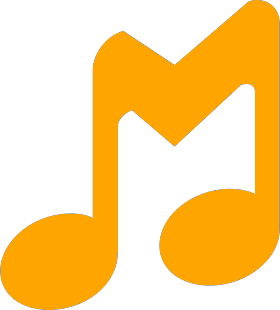
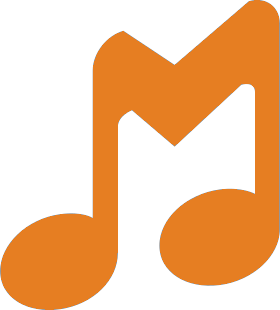
resolved dimension issues in desktop and positioning issues in mobile

diff --git a/components/NewDesktopComponent.js b/components/NewDesktopComponent.js
@@ -78,7 +78,7 @@ export default ({ width, sound, video, user }) => {
       <div
         onContextMenu={(e) => e.preventDefault()}
         className={styles.playerWrapper}
-        style={{ width: width, height: height }}
+        style={{ width: width }}
       >
         <div className={styles.wrapper}>
           <div className={styles.onlyPlayerWrapper}>
@@ -117,7 +117,12 @@ export default ({ width, sound, video, user }) => {
 
           <div className={styles.sideBar}>
             <header className={styles.header}>
-              <img src={user.profilePic} className={styles.profileImg} />
+              <img
+                src={user.profilePic}
+                className={styles.profileImg}
+                height="50px"
+                width="50px"
+              />
               <div>
                 <div className={styles.name}>
                   <div>
@@ -135,18 +140,16 @@ export default ({ width, sound, video, user }) => {
                     {' '}
                     <FontAwesomeIcon
                       icon={faMusic}
-                      size="2x"
-                      color="#ff"
+                      size="1x"
+                      color="#ff4f00"
                     />{' '}
                     {sound.name}
                   </div>
                 </div>
               </div>
-
-              {/* <button>...</button> */}
             </header>
             <main className={styles.commentBox}>
-              <div className={styles.hashTags}>
+              {/* <div className={styles.hashTags}>
                 {`#Dance #Mitron #feelIt #Bloopers `}
                 <FontAwesomeIcon
                   icon={faSmileWink}
@@ -155,53 +158,48 @@ export default ({ width, sound, video, user }) => {
                 />{' '}
                 <FontAwesomeIcon icon={faSmile} size="1x" color="orange" />{' '}
                 <FontAwesomeIcon icon={faSmile} size="1x" color="orange" />{' '}
-              </div>
+              </div> */}
               {/* <div className={styles.comments}>
                 <Link href="/gallery/gallery">
                   <a>Go to Video Gallery</a>
                 </Link>
               </div> */}
             </main>
-            <div style={{ marginBottom: '15px' }}>
-              {user.videoLikeCount
-                .toString()
-                .replace(/\B(?=(\d{3})+(?!\d))/g, ',')}{' '}
-              Likes
+            <div className={styles.metricsWrapper}>
+              <div style={{ marginBottom: '15px', marginRight: '5px' }}>
+                {video.likeCount
+                  .toString()
+                  .replace(/\B(?=(\d{3})+(?!\d))/g, ',')}{' '}
+                Likes
+              </div>
+              &#8226;
+              <div style={{ marginBottom: '15px', marginLeft: '5px' }}>
+                {video.commentCount
+                  .toString()
+                  .replace(/\B(?=(\d{3})+(?!\d))/g, ',')}{' '}
+                Comments
+              </div>
             </div>
             <footer>
               <header className={styles.scanQR}>
-                Scan the QR code to download and watch more videos on MitronTV
+                Click On The Button Below To Download The MitronTV App Now
               </header>
               <main className={styles.socialWrapper}>
-                <div className={styles.btnWrapper}>
-                  <div style={{ margin: 10 }}>
-                    <a
-                      target="_blank"
-                      href="https://play.google.com/store/apps/details?id=com.mitron.tv"
-                    >
-                      <img
-                        src="/images/googleStore.png"
-                        width="140px"
-                        height="50px"
-                      />
-                    </a>
-                  </div>
-                  <div style={{ margin: 10 }}>
-                    <a
-                      target="_blank"
-                      href="https://play.google.com/store/apps/details?id=com.mitron.tv"
-                    >
-                      <img
-                        src="/images/appStore.png"
-                        width="150px"
-                        height="50px"
-                      />
-                    </a>
-                  </div>
+                {/* <div className={styles.btnWrapper}> */}
+                <div style={{ margin: 10 }}>
+                  <a
+                    target="_blank"
+                    href="https://play.google.com/store/apps/details?id=com.mitron.tv"
+                  >
+                    <img
+                      src="/images/googleStore.png"
+                      width="140px"
+                      height="50px"
+                    />
+                  </a>
                 </div>
-                <div>
-                  <img src="/images/QR2.jpg" width="100px" height="100px" />
-                </div>
+
+                {/* </div> */}
               </main>
             </footer>
           </div>

diff --git a/components/NewDesktopComponent.module.css b/components/NewDesktopComponent.module.css
@@ -1,24 +1,28 @@
 .playerWrapper {
-  /* height: 95vh; */
+  height: 89vh;
+  margin-top: 5px;
   /* width: 100vw; */
-  /* position: relative; */
+  position: relative;
   /* padding-top: 56.25%; */
   /* border: 2px solid red; */
   display: flex;
   justify-content: center;
   align-items: center;
+  background-image: linear-gradient(#fbfbfd, #95a0a9);
 }
 
 .wrapper {
   /* border: 2px solid greenyellow; */
-  max-height: 65%;
+  /* min-height: 90%; */
+  height: 95%;
+
   /* min-width: 50%; */
-  max-width: 75%;
+  max-width: 65%;
 
   display: flex;
   box-shadow: 2px 3px 11px -2px rgba(0, 0, 0, 0.75);
   font-size: 0.9rem;
-  /* position: relative; */
+  position: absolute;
 }
 
 .onlyPlayerWrapper {
@@ -57,6 +61,10 @@
   border-right: 2px solid grey;
 }
 
+.reactPlayer video {
+  object-fit: cover;
+}
+
 .sideBar {
   /* height: 100%; */
   width: 55%;
@@ -76,8 +84,8 @@
 }
 
 .profileImg {
-  width: auto;
-  height: 50px;
+  /* width: auto; */
+  /* height: 50px; */
   /* border: 1px solid black; */
   border-radius: 50%;
   margin: 10px;
@@ -90,8 +98,12 @@
 .commentBox {
   /* border: 2px solid rgb(206, 140, 140); */
   margin-top: 5px;
-  min-height: 25%;
+  min-height: 30%;
   width: 100%;
+}
+
+.metricsWrapper {
+  display: flex;
 }
 
 .hashTags {
@@ -101,7 +113,8 @@
 
 .socialWrapper {
   display: flex;
-  justify-content: space-evenly;
+  justify-content: center;
+  align-items: center;
   max-width: 90%;
   margin: auto;
 }
@@ -112,13 +125,13 @@
   /* border: 2px solid aliceblue; */
 }
 
-.btnWrapper {
+/* .btnWrapper {
   display: 'flex';
   flex-direction: 'column';
   align-items: 'space-between';
   height: '100%';
-  /* border: "2px solid red"; */
-}
+  border: "2px solid red";
+} */
 
 .playPause {
   /* border: 2px solid blue; */
@@ -132,6 +145,10 @@
   .playerWrapper {
     /* border: 2px solid blue; */
   }
+}
+
+.musicLabel {
+  /* color: #ff4f00; */
 }
 
 /* DEMO-SPECIFIC STYLES */

diff --git a/pages/video/[id].js b/pages/video/[id].js
@@ -12,7 +12,7 @@ const Player = ({ sound, video, user, msg, url }) => {
   const [width, setWidth] = React.useState();
   const [height, setHeight] = React.useState();
   //   const [playing, setPlaying] = React.useState(false);
-  const breakpoint = 720;
+  const breakpoint = 820;
 
   //state/hook for fetching data
   // const [sound, setSound] = React.useState({});
@@ -160,7 +160,7 @@ Player.getInitialProps = async ({ query }) => {
   const result = await axios(config);
   const shareResult = await axios(shareConfig);
 
-  console.log('share result', shareResult.data);
+  // console.log('share result', shareResult.data);
   // console.log('sound', result.data.sound);
   // const json = await res.json()
   // return { stars: json.stargazers_count }

diff --git a/components/react-modal-box.js b/components/react-modal-box.js
@@ -57,7 +57,7 @@ export default class ReactModalBox extends Component {
             left: 0,
             right: 0,
             bottom: 0,
-            backgroundColor: 'rgba(255, 255, 255, 0.75)',
+            backgroundColor: 'rgba(255, 255, 255, 0.30)',
           },
           content: {
             position: 'absolute',
@@ -72,6 +72,7 @@ export default class ReactModalBox extends Component {
             borderRadius: '4px',
             outline: 'none',
             padding: '20px',
+            boxShadow: '3px -1px 9px 0px rgba(0,0,0,0.75) ',
           },
           /* Object indicating styles to be used for the modal.
      It has two keys, `overlay` and `content`.

diff --git a/components/Header.js b/components/Header.js
@@ -12,6 +12,7 @@ const Home = () => {
         <link href="/vendors/css/grid.css" rel="stylesheet" />
       </Head>
       <header>
+        {/* <header onContextMenu={(e) => e.preventDefault()}> */}
         <nav>
           <div className={styles[`nav--header`]}>
             <img
@@ -31,7 +32,8 @@ const Home = () => {
                 <a href="#cities">Trending</a>
               </li>
               <li className={styles.watchVideo}>
-                <Link href="/home/home">
+                {/* <Link href="/home/home"> */}
+                <Link href="#">
                   <a target="_blank">Watch Video Now</a>
                 </Link>
               </li>

diff --git a/components/MobileActionsSideBar.js b/components/MobileActionsSideBar.js
@@ -35,7 +35,7 @@ import {
 
 export default class OtherActions2 extends Component {
   triggerChildModalOpen = () => {
-    console.log(' share button Click');
+    // console.log(' share button Click');
     this.refs.childModal.handleOpenModal();
   };
   render() {
@@ -66,6 +66,8 @@ export default class OtherActions2 extends Component {
               src={this.props.user.profilePic}
               alt="React Logo"
               className={styles.profilepic}
+              height="50"
+              width="50"
             />
             <div
               onClick={(e) => {

diff --git a/components/desktop-actions-sidebar.module.css b/components/desktop-actions-sidebar.module.css
@@ -3,13 +3,14 @@
   height: 50%;
   width: 10%;
   top: 25%;
-  right: 3%;
+  right: 15px;
   /* background-color: rgba(0, 0, 0, 0.3); */
   display: flex;
   flex-direction: column;
   /* align-content: center; */
   justify-content: space-between;
-  border: 2px soild blue;
+  /* border: 2px soild blue; */
+  cursor: pointer;
 }
 
 .playPauseWrapper {
@@ -28,8 +29,6 @@
 }
 
 .profilePicWrapper {
-  height: 50px;
-  width: 50px;
   margin-left: -10px;
   margin-bottom: 10px;
   position: relative;

diff --git a/components/DesktopActionsSidebar.js b/components/DesktopActionsSidebar.js
@@ -35,9 +35,10 @@ export default class OtherActions2 extends Component {
           >
             <img
               src={this.props.user.profilePic}
-              // src="/images/bhavika1.jpg"
               alt="React Logo"
               className={styles.profilepic}
+              height="50px"
+              width="50px"
             />
             <div
               onClick={(e) => {

diff --git a/styles/global.css b/styles/global.css
@@ -51,3 +51,15 @@ img {
   max-width: 100%;
   display: block;
 }
+
+/* @media screen and (min-width: 320px) and (max-width: 767px) and (orientation: landscape) {
+  html {
+    transform: rotate(-90deg);
+    transform-origin: left top;
+    width: 100vw;
+    overflow-x: hidden;
+    position: absolute;
+    top: 100%;
+    left: 0;
+  }
+} */

diff --git a/components/desktop-actions-footer.module.css b/components/desktop-actions-footer.module.css
@@ -1,8 +1,8 @@
 .footerBox {
-  background-color: rgba(0, 0, 0, 0.2);
+  /* background-color: rgba(0, 0, 0, 0.2); */
   position: absolute;
-  top: 90%;
-  height: 10%;
+  bottom: 1%;
+  height: 7%;
   width: 100%;
   display: flex;
   justify-content: space-around;

diff --git a/components/mobile-actions-footer.module.css b/components/mobile-actions-footer.module.css
@@ -2,7 +2,8 @@
   /* background-color: rgba(0, 0, 0, 0.5); */
   /* background-color: red; */
   position: absolute;
-  top: 90%;
+  /* top: 60%; */
+  bottom: 1px;
   height: 10%;
   width: 100%;
   display: flex;

diff --git a/components/user-details.module.css b/components/user-details.module.css
@@ -2,7 +2,8 @@
   /* background-color: rgba(0, 0, 0, 0.5); */
   /* background-color: red; */
   position: absolute;
-  top: 80%;
+  /* top: 80%; */
+  bottom: 10%;
   left: 5%;
   height: 10%;
   width: 50%;
